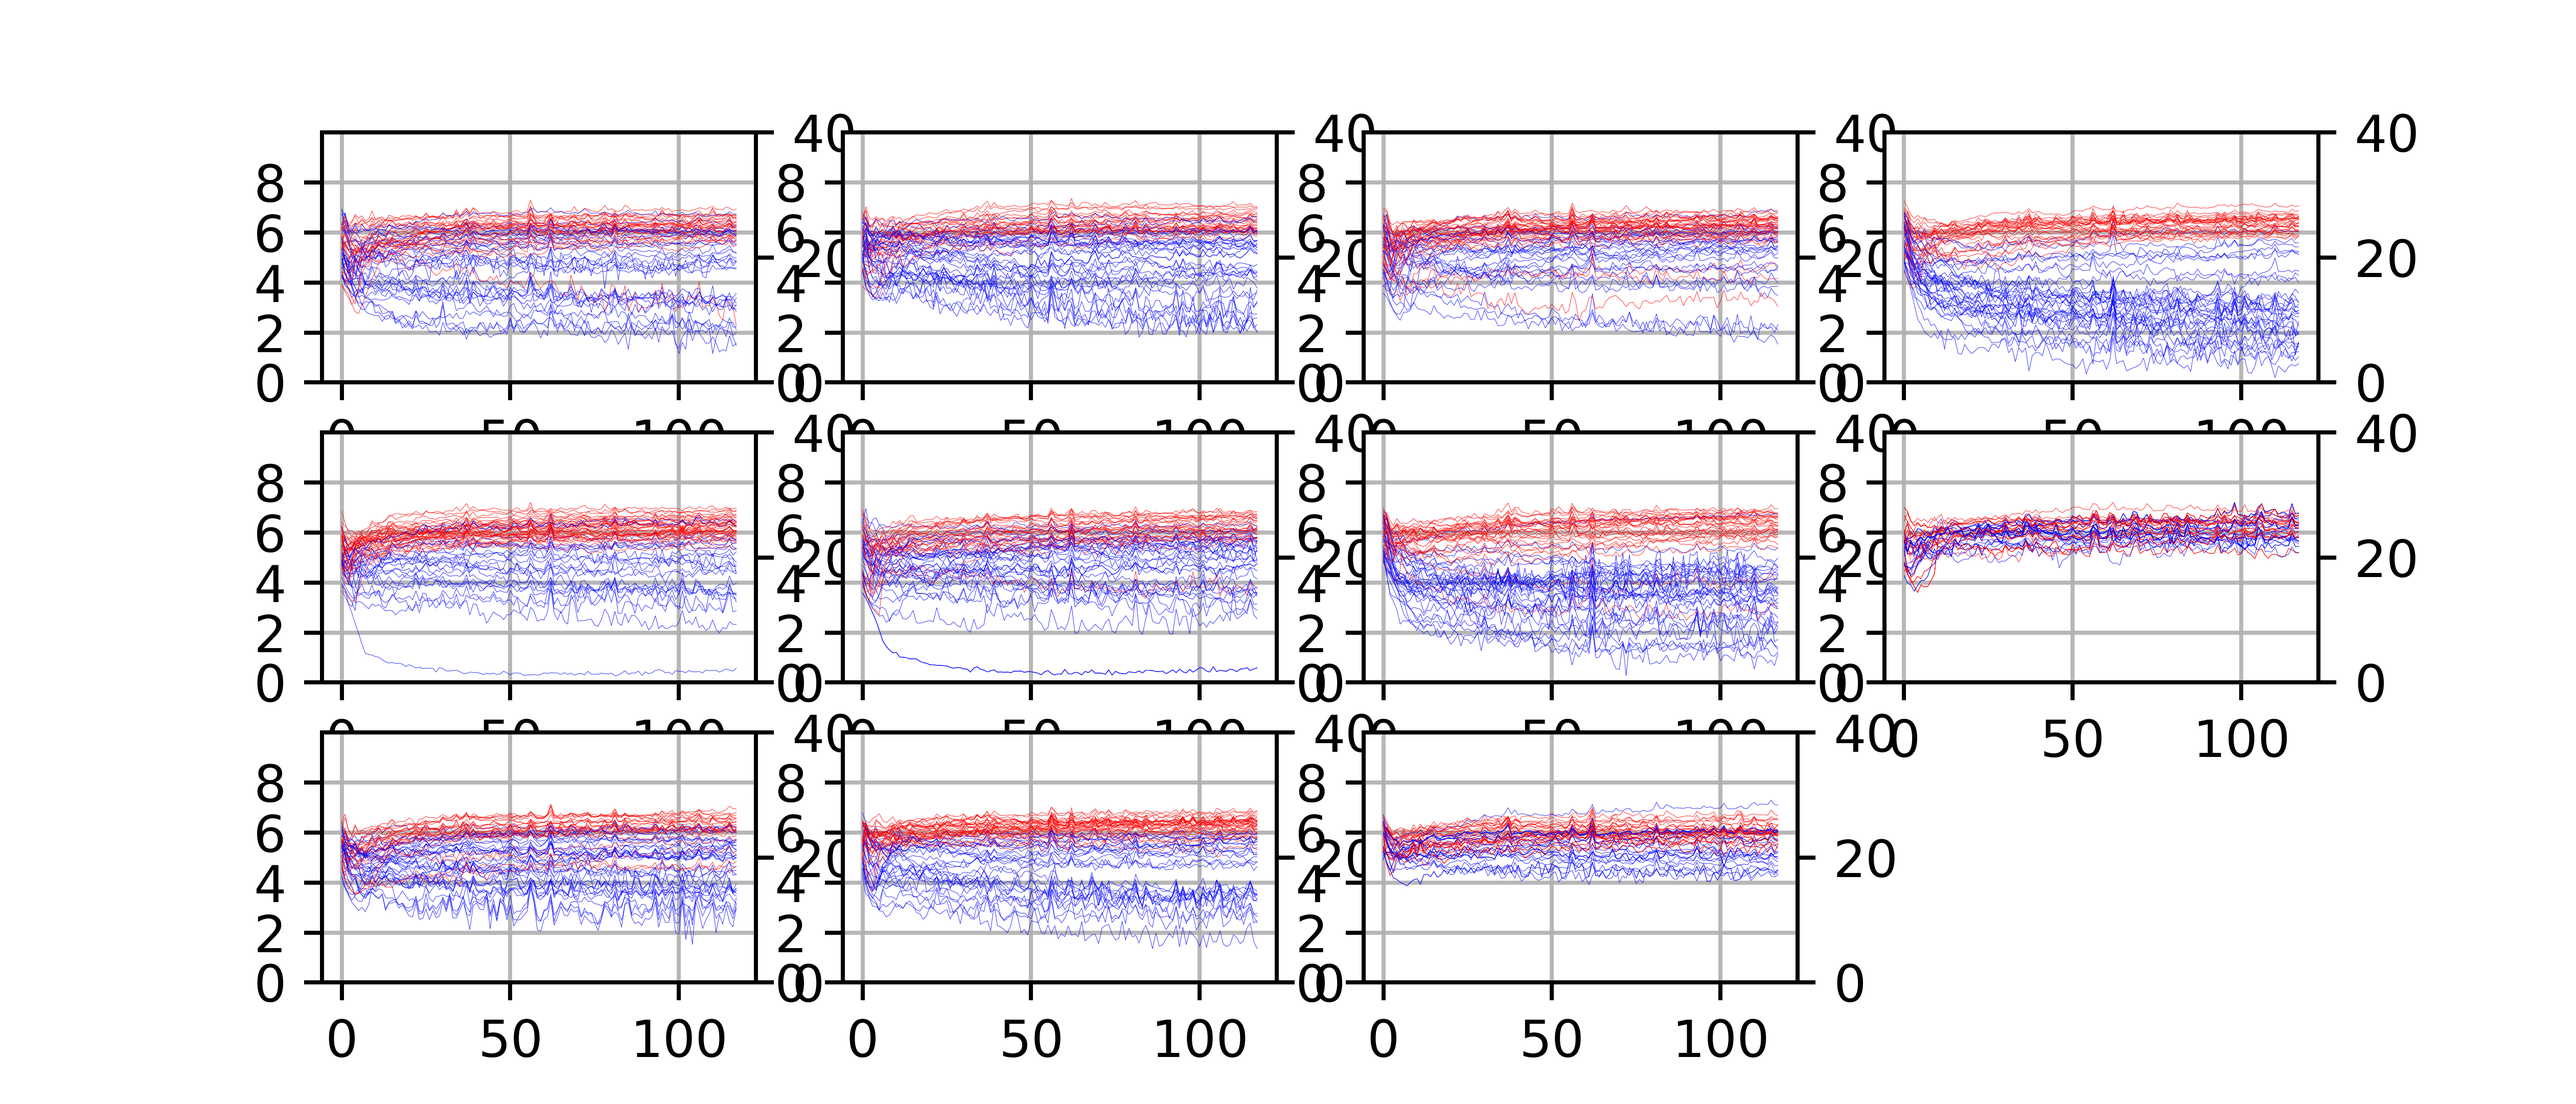
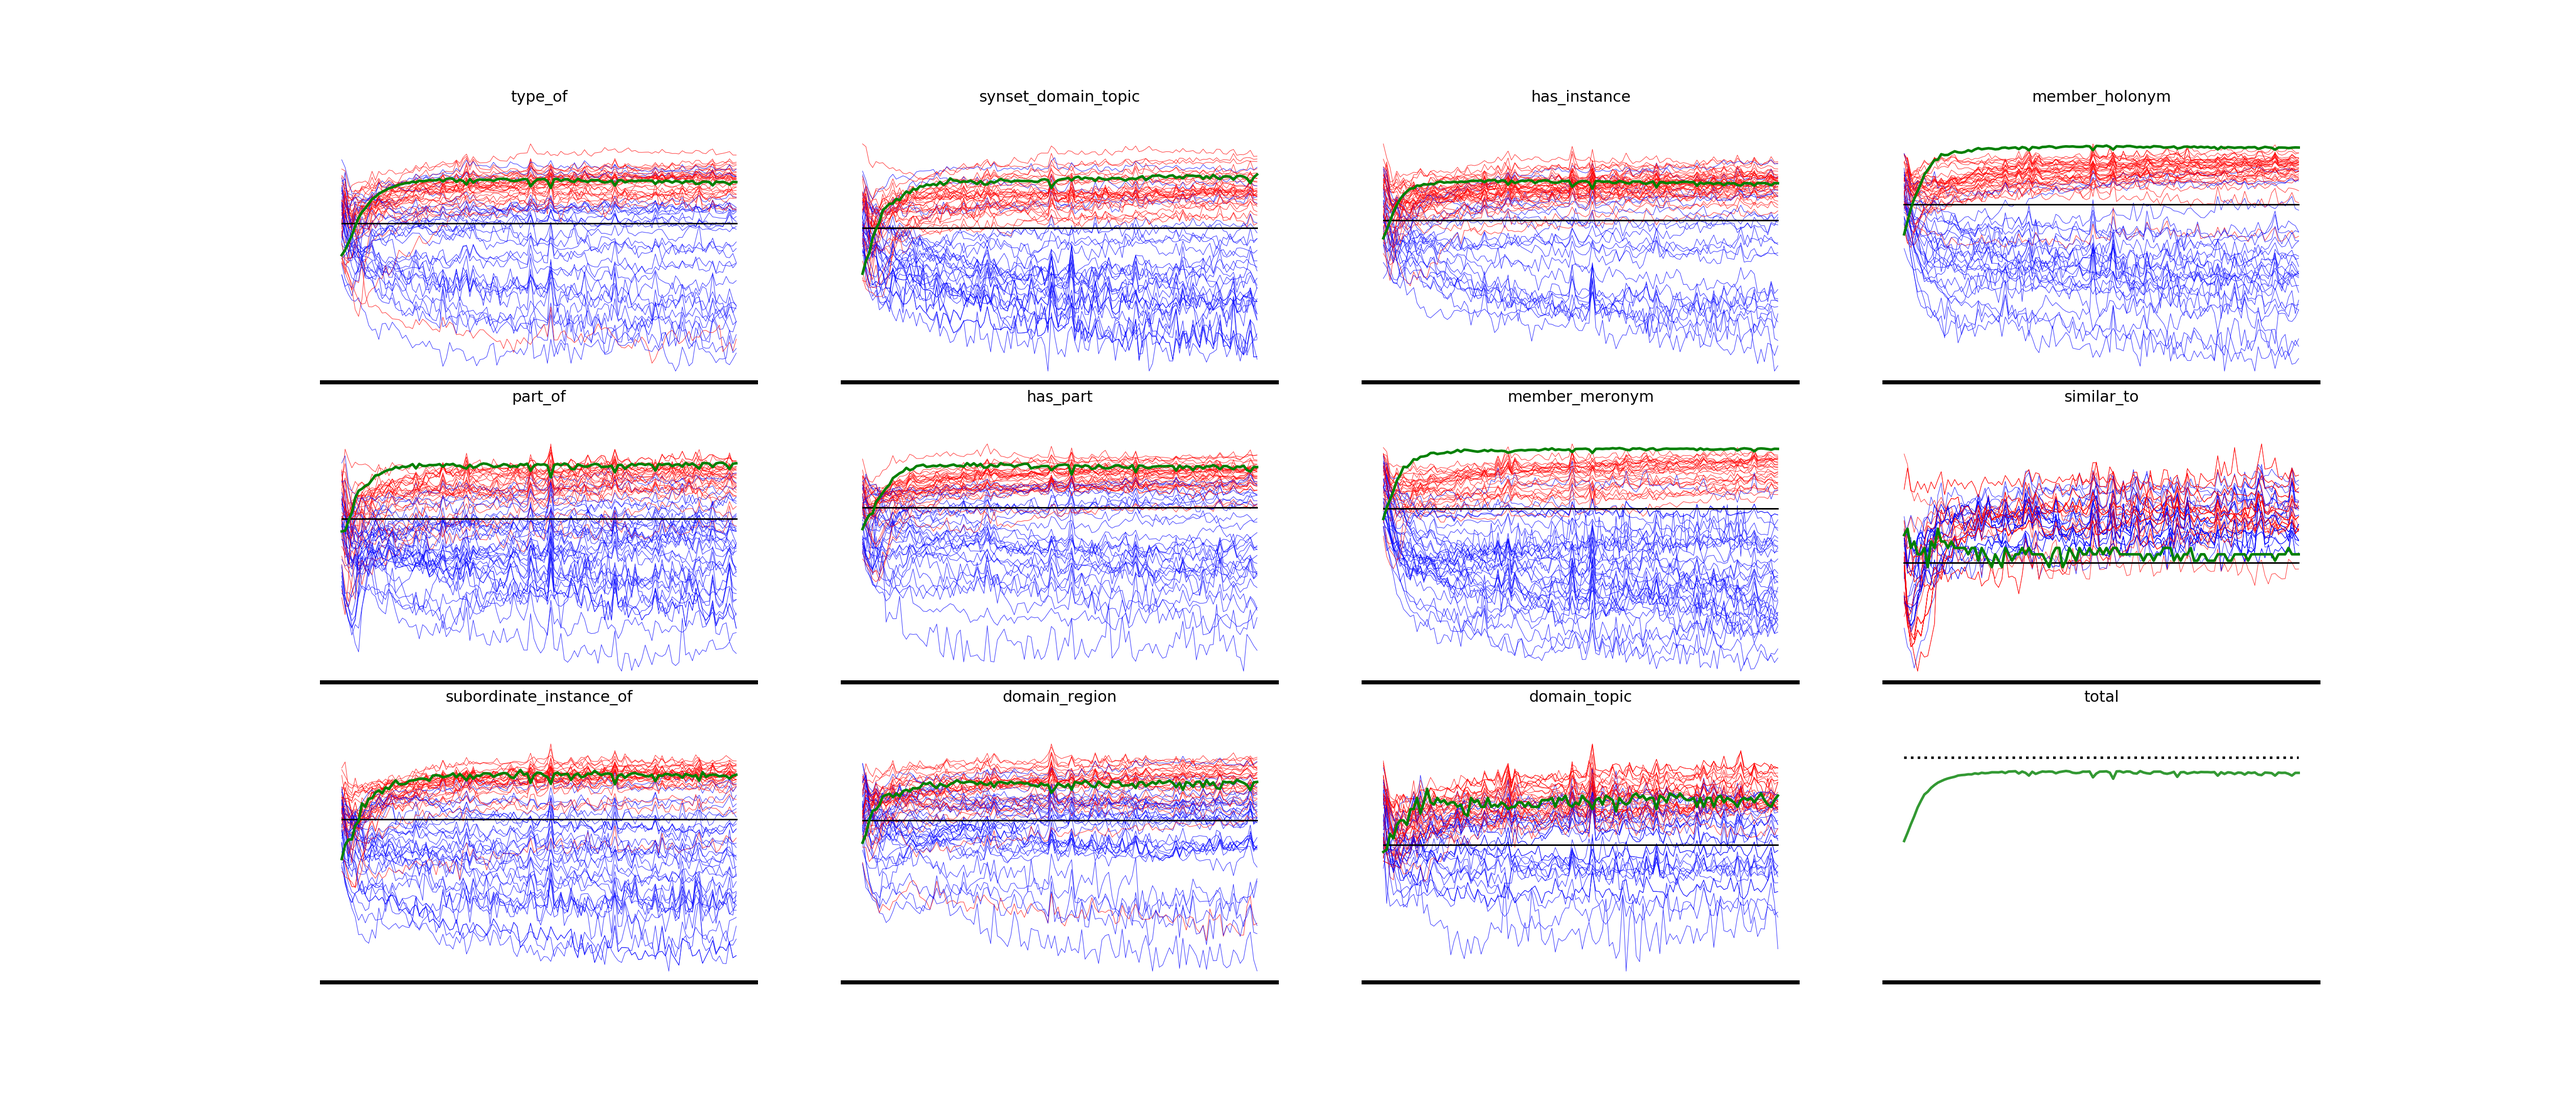
refine drawing codes

diff --git a/draw-score-history/draw-dist.py b/draw-score-history/draw-dist.py
@@ -1,110 +1,151 @@
 #! -*- coding:utf-8 -*-
 
-import math
-import numpy as np
 import matplotlib
 import matplotlib.pyplot as plt
 matplotlib.use('TkAgg')
 from matplotlib.ticker import *
 
+import random,os,sys,math
 from collections import defaultdict
-import random
-import os,sys
+
+relationsWN11={0:'type_of',1:'synset_domain_topic',2:'has_instance',3:'member_holonym',4:'part_of',5:'has_part',6:'member_meronym',7:'similar_to',8:'subordinate_instance_of',9:'domain_region',10:'domain_topic'}
 
 import datetime
 def trace(*args):
 	print(datetime.datetime.now().strftime('%H:%M:%S')+' '+' '.join(map(str,args)))
 
-def draw(source_file,target_file,ymin=0,ymax=100000,is_logscale=False,sample_size=50,threshold=1):
+def draw(source_file,target_file,mode,ymin=0,ymax=100000,is_logscale=False,sample_size=50,threshold=300,best_accuracy=90.0):
 	assert os.path.exists(source_file), ('cannot such file',source_file)
 
 	plt.figure(figsize=(7,3))
-	mode = 'test'
-	for mode in ['dev:','test:']:
-		if mode=='dev:': continue
-		trace('\tcollecting properties')
-		xmax,tuples = 0,[defaultdict(set),defaultdict(set)]
-		relation_set = set()
-		for text in open(source_file):
-			if mode not in text: continue
-			xmax+=1
-			if xmax!=1: continue
-			for terms in text[len(mode):].split(' '):
-				h,r,t,l = map(int,terms.split(',')[:-1])
-				tuples[l][r].add((h,r,t))
-				relation_set.add(r)
-		Rsize = len(relation_set)
 
-		trace('\tinitlizing data')
-		values = dict()
-		for l in [0,1]:
-			for r in tuples[l]:
-				tuples[l][r] = list(tuples[l][r])
+	trace('\tcollecting properties')
+	xmax,tuples = 0,[defaultdict(set),defaultdict(set)]
+	relation_set = set()
+	for text in open(source_file):
+		if mode not in text: continue
+		xmax+=1
+		if xmax!=1: continue
+		for terms in text[len(mode)+1:].split(' '):
+			h,r,t,l = map(int,terms.split(',')[:-1])
+			tuples[l][r].add((h,r,t))
+			relation_set.add(r)
+	Rsize = len(relation_set)
+
+	trace('\tinitlizing data')
+	values = dict()
+	for l in [0,1]:
+		for r in tuples[l]:
+			tuples[l][r] = list(tuples[l][r])
+			for t in tuples[l][r]:
+				values[t] = [0.0 for j in range(xmax)]
+	trace('\tloading data')
+	count=0
+	for text in open(source_file):
+		if mode not in text: continue
+		for terms in text[len(mode)+1:].split(' '):
+			terms = terms.split(',')
+			t = tuple(map(int,terms[:-2]))
+			v = float(terms[-1])
+			if is_logscale: v = math.copysign(math.log(v),v)
+			values[t][count] = v
+		count+=1
+
+	trace('\tdrawing')
+	Wsize=4
+	if is_logscale: threshold = math.log(threshold)
+	for r in range(Rsize):
+		trace('\t\t relation:',r)
+		# draw scores
+		ax1 = plt.subplot(1+Rsize//Wsize,Wsize,r+1)
+		ax1.set_title(relationsWN11[r],fontsize=3)
+		for _ in range(2*sample_size):
+			l = random.randint(0,1)
+			if len(tuples[l][r])==0: continue
+			t = random.sample(tuples[l][r],1)[0]
+			if l==1:     ax1.plot(values[t],'b-',alpha=0.8,linewidth=0.1)
+			if l==0:     ax1.plot(values[t],'r-',alpha=0.8,linewidth=0.1)
+
+		# draw threshold
+		ax1.plot([threshold for i in range(xmax)],'k-',alpha=1.0,linewidth=0.3)
+
+		# draw accuracy
+		accuracy = [0.0 for i in range(xmax)]
+		for i in range(xmax):
+			for l in [0,1]:
 				for t in tuples[l][r]:
-					values[t] = [0.0 for j in range(xmax)]
-		trace('\tloading data')
-		count=0
-		for text in open(source_file):
-			if mode not in text: continue
-			for terms in text[len(mode):].split(' '):
-				terms = terms.split(',')
-				t = tuple(map(int,terms[:-2]))
-				v = float(terms[-1])
-				if is_logscale: v = math.copysign(math.log(v),v)
-				values[t][count] = v
-			count+=1
+					if values[t][i]<=threshold and l==1:
+						accuracy[i]+=1
+					if values[t][i]> threshold and l==0:
+						accuracy[i]+=1
+		N = len(tuples[0][r])+len(tuples[1][r])+0.0
+		if N==0.0:continue
 
-		trace('\tdrawing')
-		Wsize=4
-		if is_logscale: threshold = math.log(threshold)
-		for r in range(Rsize):
-			trace('\t\t relation:',r)
-			# draw scores
-			ax1 = plt.subplot(1+Rsize//Wsize,Wsize,r+1)
-			ax1.grid(which='major', alpha=0.9,linestyle='-')
-			if is_logscale:	  ax1.set_xticks(np.arange(0, 50*(1+xmax//50), 50))
-			else:					ax1.set_xticks(np.arange(0, 1000*(1+xmax//1000), 1000))
-			ax1.set_ylim(ymin, ymax)
-			ax1.set_yticks(np.arange(ymin, ymax, 2))
-			for _ in range(2*sample_size):
-				l = random.randint(0,1)
-				if len(tuples[l][r])==0: continue
-				t = random.sample(tuples[l][r],1)[0]
-				if l==1:	 ax1.plot(values[t],'b-',alpha=0.8,linewidth=0.1)
-				if l==0:	 ax1.plot(values[t],'r-',alpha=0.8,linewidth=0.1)
+		ax2 = ax1.twinx()
+		ax2.set_ylim([0,100.0])
+		ax2.plot([100.0*x/N for x in accuracy],'g-',alpha=1.0,linewidth=0.5)
+
+		ax1.tick_params(labelleft=False, labelright=False, labeltop=False,labelbottom=False,bottom=False)
+		ax2.tick_params(labelleft=False, labelright=False, labeltop=False,labelbottom=False,bottom=False)
+		ax1.yaxis.set_visible(False)
+		ax2.yaxis.set_visible(False)
+		ax1.spines["left"].set_color("none")
+		ax2.spines["left"].set_color("none")
+		ax1.spines["right"].set_color("none")
+		ax2.spines["right"].set_color("none")
+		ax1.spines["top"].set_color("none")
+		ax2.spines["top"].set_color("none")
 
 
-			# draw threshold
-			threshold_value=[threshold for i in range(xmax)]
-			ax1.plot(threshold_value,'k-',alpha=1.0,linewidth=0.3)
 
-			accuracy = [0.0 for i in range(xmax)]
-			for i in range(xmax):
-				for l in [0,1]:
-					for t in tuples[l][r]:
-						if values[t][i]<=threshold and l==1:
-							accuracy[i]+=1
-						if values[t][i]>=threshold and l==0:
-							accuracy[i]+=1
-			N = len(tuples[0][r])+len(tuples[1][r])+0.0
-			if N==0.0:continue
-			accuracy = [100.0-100.0*x/N for x in accuracy]
-			ax2 = ax1.twinx()
-			ax2.set_ylim([0,100.0])
-			ax2.set_ylim([0,60.0])
-			ax2.set_ylim([0,40.0])
-			ax2.plot(accuracy,'g-',alpha=1.0,linewidth=0.7)
 
-		plt.savefig(target_file+'-'+mode[:-1]+'.png',dpi=720)
-		plt.clf()
+	trace('\t\t total')
+	ax1 = plt.subplot(1+Rsize//Wsize,Wsize,r+2)
+	ax1.set_title('total',fontsize=3)
+
+	ax2 = ax1.twinx()
+	ax2.set_ylim([0,100.0])
+
+	ax1.tick_params(labelleft=False, labelright=False, labeltop=False,labelbottom=False,bottom=False)
+	ax2.tick_params(labelleft=False, labelright=False, labeltop=False,labelbottom=False,bottom=False)
+	ax1.yaxis.set_visible(False)
+	ax2.yaxis.set_visible(False)
+	ax1.spines["left"].set_color("none")
+	ax2.spines["left"].set_color("none")
+	ax1.spines["right"].set_color("none")
+	ax2.spines["right"].set_color("none")
+	ax1.spines["top"].set_color("none")
+	ax2.spines["top"].set_color("none")
+
+	# draw accuracy
+	accuracy = [0.0 for i in range(xmax)]
+	N = 0.0
+	for r in range(Rsize):
+		for i in range(xmax):
+			for l in [0,1]:
+				for t in tuples[l][r]:
+					if values[t][i]<=threshold and l==1:
+						accuracy[i]+=1
+					if values[t][i]> threshold and l==0:
+						accuracy[i]+=1
+		N += len(tuples[0][r])+len(tuples[1][r])
+	ax2.plot([100.0*x/N for x in accuracy],         'g-',alpha=0.8,linewidth=0.5)
+	
+	# draw best accuracy
+	ax2.plot([best_accuracy for _ in range(xmax)],  'k:',alpha=1.0,linewidth=0.5)
+
+	plt.savefig(target_file+'-'+mode+'.png',dpi=720)
+	plt.clf()
 
 import os
 if __name__ == '__main__':
-	source_file = 'score/example'
-	target_file = 'history/example'
-	ymin 			= 0
-	ymax 			= 10
-	is_logscale 	= True
-	sample_size 	= 30
-	draw(source_file, target_file, ymin, ymax, is_logscale, sample_size)
+	source_file 	= 'score/example'
+	target_file		= 'history/example'
+	mode 			= 'test'
+	ymin            = 0
+	ymax            = 10
+	is_logscale     = True
+	sample_size     = 30
+	threshold       = 200
+	draw(source_file, target_file, mode, ymin, ymax, is_logscale, sample_size, threshold)
 
